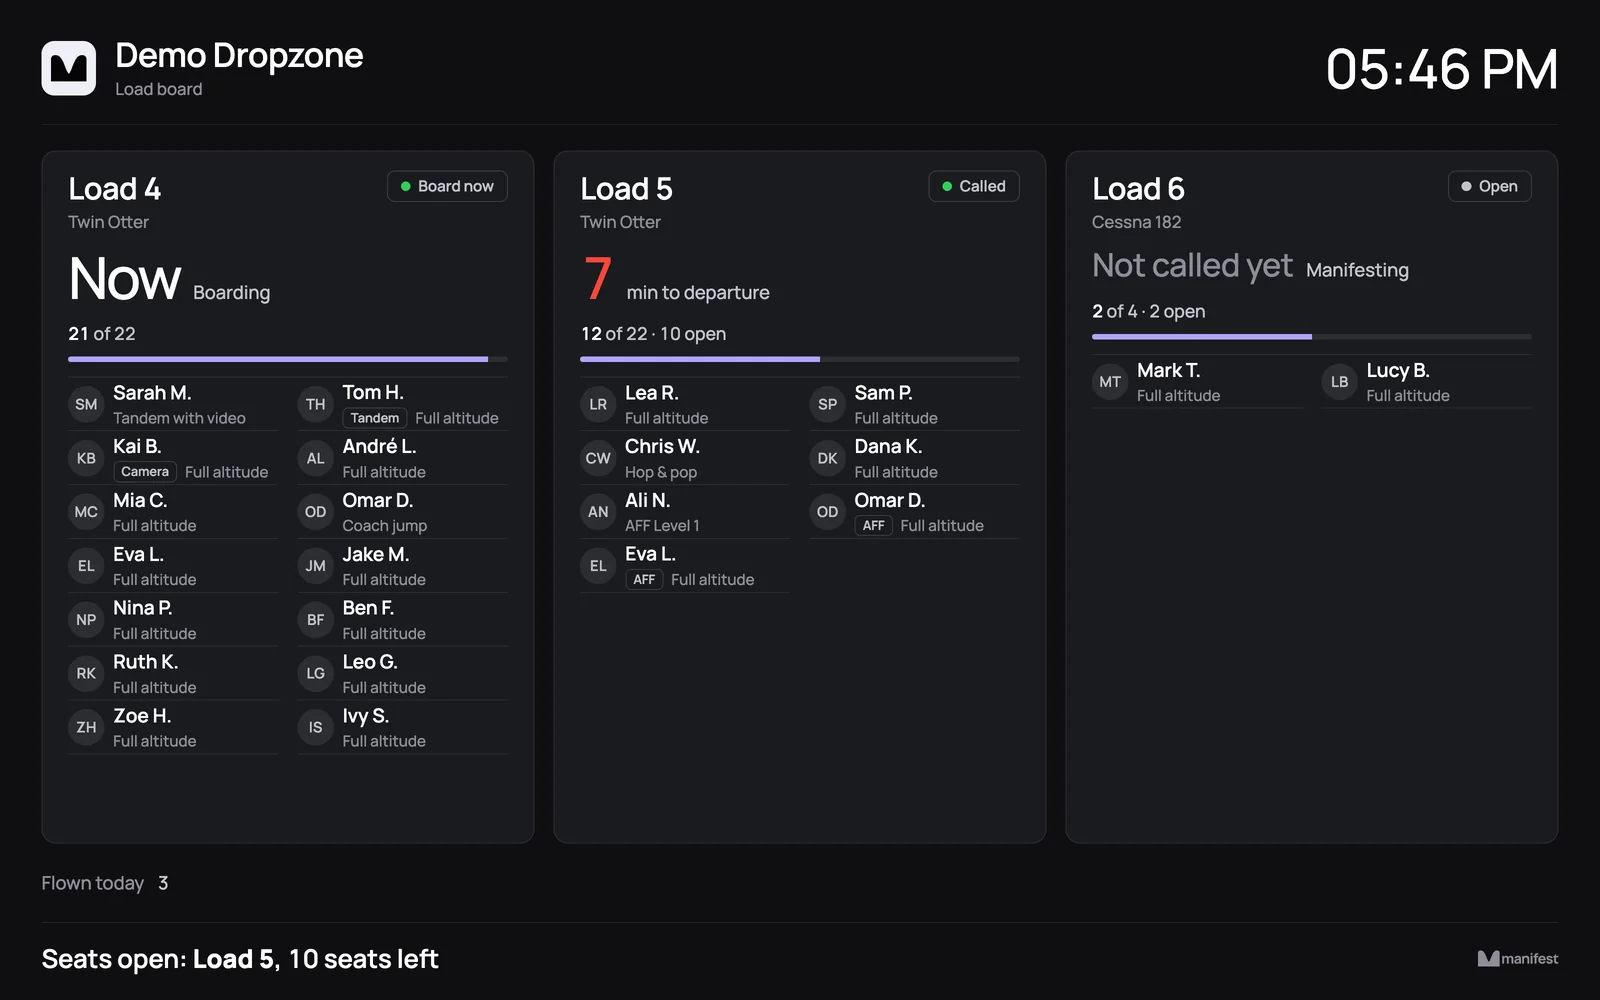
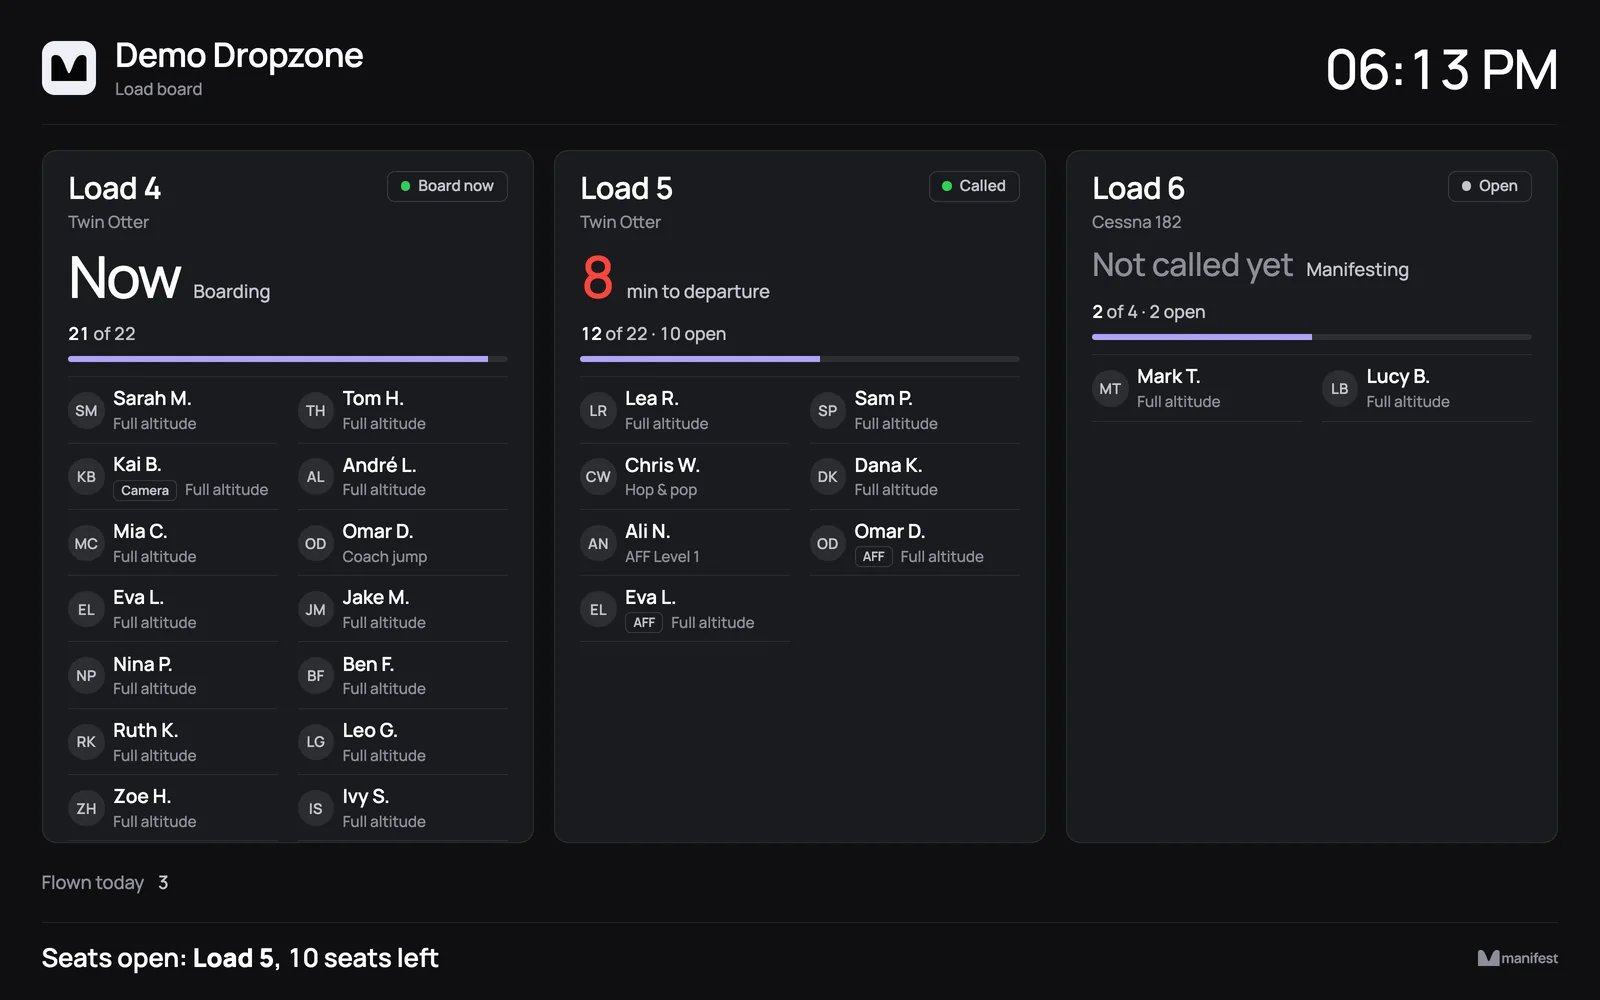
Dropzones: laptop + iPhone hero, why carousel, queue accordion, board without tandem labels
Hero and draft landout use a CSS laptop with a fresh Desk capture and the
full framed iPhone. Quote cards become a sideways carousel, the queue cards
an accordion with a swapping phone. Onboarding line removed.

diff --git a/dropzones/index.html b/dropzones/index.html
@@ -1089,18 +1089,17 @@ section[id], header[id], div[id] { scroll-margin-top: 96px; }
         <span><svg viewBox="0 0 24 24" fill="none" stroke="currentColor" stroke-width="2" stroke-linecap="round" stroke-linejoin="round" aria-hidden="true"><path d="M3 11h3a2 2 0 0 1 2 2v3a2 2 0 0 1-2 2H5a2 2 0 0 1-2-2v-5Zm0 0a9 9 0 1 1 18 0m0 0v5a2 2 0 0 1-2 2h-1a2 2 0 0 1-2-2v-3a2 2 0 0 1 2-2h3Z"/><path d="M21 16v2a4 4 0 0 1-4 4h-5"/></svg>Set up with us, directly</span>
       </div>
     </div>
-    <p class="li hero-founding" style="--i:4">Dropzones are onboarding now, set up directly with us.</p>
   </div>
   <!-- F13 (16 Oct 2026): the hero shows real Desk panels cut from
        desk-today.jpg (Next load, Standby, Loads; Next load alone on phones) so
        the UI text is readable. Nothing redrawn. -->
   <figure class="li hero-media" id="demo" style="--i:5">
-    <div class="hm-wrap">
-      <div class="frame">
-        <div class="frame-bar"><i></i><i></i><i></i><span>desk.jumpmanifest.com</span></div>
-        <img src="/assets/desk-today.jpg?v=1" alt="Manifest Desk: the Today page of a demo dropzone, with today's takings, open loads, the next load countdown, standby and accounts" width="1440" height="900" fetchpriority="high" />
+    <div class="dv">
+      <div class="lap" aria-hidden="false">
+        <div class="lap-lid"><div class="lap-screen"><img src="/assets/features/desk-today-laptop.webp" width="1800" height="1125" alt="Manifest Desk on a laptop: the Today page of a demo dropzone with takings, loads, the next load, standby and accounts" fetchpriority="high" /></div></div>
+        <div class="lap-base"><i></i></div>
       </div>
-      <img class="hm-phone" src="/assets/opt/mock-home3.a2e7757f.webp" width="640" height="1330" alt="" />
+      <img class="dv-phone" src="/assets/opt/mock-home3.a2e7757f.webp" width="640" height="1330" alt="The Manifest app on an iPhone with the jumper's next load" />
     </div>
     <figcaption class="desk-cap">Manifest Desk with sample data from a demo dropzone.</figcaption>
   </figure>
@@ -1157,10 +1156,33 @@ section[id], header[id], div[id] { scroll-margin-top: 96px; }
     <h2 id="lv-h">Skydivers deserve better than a ticket app.</h2>
     <p>Give them their whole skydiving life in their pocket, and they&rsquo;ll book, top up and come back more.</p>
   </section>
-  <section class="pain3" aria-label="What only Manifest does">
-    <div class="pain"><b>&ldquo;Load 4, 10 minutes!&rdquo;</b><p>One button at the desk. Every jumper on the load gets the call on their Lock Screen, wherever they are on the dropzone.</p></div>
-    <div class="pain"><b>&ldquo;Where&rsquo;s the jumper who landed out?&rdquo;</b><p>A live map shows them, with a pickup pin for the driver and one tap to put every load on hold.</p></div>
-    <div class="pain"><b>&ldquo;Did you see my jump?&rdquo;</b><p>Every jumper can replay their jump in 3D and share it, with your dropzone&rsquo;s name on it. Free advertising, every jump day.</p></div>
+  <!-- WHY IT WORKS CAROUSEL (19 Oct 2026): apple.com style sideways cards,
+       one question a dropzone hears every day, one line, one real picture. -->
+  <section class="cr" aria-label="What only Manifest does">
+    <div class="cr-track" tabindex="0">
+      <article class="cr-card">
+        <p class="cr-eye">Load calls</p>
+        <h3>&ldquo;Load 4, 10&nbsp;minutes!&rdquo;</h3>
+        <p class="cr-line">One tap at the desk. Every Lock Screen knows.</p>
+        <div class="cr-pic cr-desk"><img src="/assets/help/manifest-call.webp" width="1200" height="750" alt="Calling a load on Manifest Desk" loading="lazy" decoding="async" /></div>
+      </article>
+      <article class="cr-card">
+        <p class="cr-eye">Landouts</p>
+        <h3>&ldquo;Where&rsquo;s the jumper who landed&nbsp;out?&rdquo;</h3>
+        <p class="cr-line">On your map, with a pin for the driver.</p>
+        <div class="cr-pic cr-desk"><img src="/assets/features/desk-landout.webp" width="1400" height="825" alt="A landout on Manifest Desk with the jumper on a satellite map" loading="lazy" decoding="async" /></div>
+      </article>
+      <article class="cr-card">
+        <p class="cr-eye">3D replays</p>
+        <h3>&ldquo;Did you see my&nbsp;jump?&rdquo;</h3>
+        <p class="cr-line">Replayed in 3D and shared, with your name on it.</p>
+        <div class="cr-pic cr-phone"><img src="/assets/features/app-3d-replay.webp" width="571" height="1185" alt="A jump replayed in 3D in the Manifest app" loading="lazy" decoding="async" /></div>
+      </article>
+    </div>
+    <div class="cr-nav">
+      <button type="button" class="cr-btn" data-dir="-1" aria-label="Previous"><svg viewBox="0 0 16 16" fill="none" stroke="currentColor" stroke-width="2" stroke-linecap="round" stroke-linejoin="round" aria-hidden="true"><path d="M10 3L5 8l5 5"/></svg></button>
+      <button type="button" class="cr-btn" data-dir="1" aria-label="Next"><svg viewBox="0 0 16 16" fill="none" stroke="currentColor" stroke-width="2" stroke-linecap="round" stroke-linejoin="round" aria-hidden="true"><path d="M6 3l5 5-5 5"/></svg></button>
+    </div>
   </section>
   <style>
   /* LIVE IN IT line (16 Oct 2026): one headline and one sentence, centred. */
@@ -1168,23 +1190,81 @@ section[id], header[id], div[id] { scroll-margin-top: 96px; }
   .lv h2{margin:0;font-family:"General Sans","Manrope",sans-serif;font-weight:550;letter-spacing:-.028em;font-size:clamp(34px,4vw,56px);line-height:1.05;color:#050505;text-wrap:balance}
   .lv p{margin:20px auto 0;font-size:20px;line-height:31px;color:#52525B;max-width:620px;text-wrap:balance}
   @media (max-width:899px){.lv{margin-top:64px}.lv p{font-size:17px;line-height:27px}}
-  .pain3{display:grid;grid-template-columns:repeat(3,1fr);gap:16px;margin:56px 0 0}
-  .pain{background:#f5f5f6;border-radius:24px;padding:28px 26px}
-  .pain b{display:block;font-family:"Manrope",sans-serif;font-size:21px;line-height:27px;font-weight:700;color:#0f0b1c;letter-spacing:-.01em}
-  .pain p{margin:10px 0 0;font-size:16px;line-height:24px;color:#52525B}
-  @media (max-width:899px){.pain3{grid-template-columns:1fr;gap:12px;margin-top:36px}.pain{padding:22px 20px}.pain b{font-size:19px;line-height:25px}}
+  /* DEVICES (19 Oct 2026): a CSS laptop with the real Desk inside and the
+     real framed iPhone standing at its lower right. Both always whole. */
+  .dv{position:relative;padding:0 13% 2% 0}
+  .lap{width:100%}
+  .lap-lid{position:relative;background:#0c0c0e;border-radius:18px 18px 4px 4px;padding:2.2% 2.2% 2.6%;box-shadow:0 0 0 1.5px #c6c7cb,0 0 0 2.5px #e6e7ea}
+  .lap-screen{aspect-ratio:16/10;overflow:hidden;border-radius:3px;background:#fff}
+  .lap-screen img{display:block;width:100%;height:100%;object-fit:cover;object-position:left top}
+  .lap-base{position:relative;width:116%;margin-left:-8%;aspect-ratio:100/3.3;background:linear-gradient(180deg,#eceef0 0%,#d5d7da 38%,#b9bbbf 100%);border-radius:2px 2px 50% 50%/2px 2px 100% 100%;box-shadow:0 26px 40px -18px rgba(5,5,5,.45)}
+  .lap-base i{position:absolute;left:50%;top:0;width:15%;height:42%;transform:translateX(-50%);background:linear-gradient(180deg,#b4b6ba,#cfd1d4);border-radius:0 0 10px 10px}
+  .dv-phone{position:absolute;right:0;bottom:0;width:19%;height:auto;filter:drop-shadow(0 22px 30px rgba(5,5,5,.30))}
+  @media (max-width:767px){.lap-lid{border-radius:10px 10px 3px 3px}.dv{padding:0 11% 3% 4%}.lap-base{width:108%;margin-left:-4%}.dv-phone{width:24%}}
+  /* WHY CAROUSEL (19 Oct 2026): sideways white cards on grey, arrows bottom right. */
+  .cr{margin:56px 0 0;background:#F5F5F7;border-radius:32px;padding:40px 0 28px}
+  .cr-track{display:flex;gap:20px;overflow-x:auto;scroll-snap-type:x mandatory;scroll-padding:0 40px;padding:0 40px 8px;scrollbar-width:none;outline:none}
+  .cr-track::-webkit-scrollbar{display:none}
+  .cr-card{flex:0 0 min(480px,82%);scroll-snap-align:start;background:#fff;border-radius:28px;padding:40px 40px 0;display:flex;flex-direction:column;min-height:640px;overflow:hidden}
+  .cr-eye{margin:0;font-size:15px;line-height:20px;font-weight:600;color:#71717B}
+  .cr-card h3{margin:10px 0 0;font-family:"General Sans","Manrope",sans-serif;font-weight:550;font-size:34px;line-height:38px;letter-spacing:-.028em;color:#050505;text-wrap:balance}
+  .cr-line{margin:12px 0 0;font-size:17px;line-height:25px;font-weight:500;color:#71717B}
+  .cr-pic{margin-top:auto;padding-top:32px}
+  .cr-pic img{display:block;height:auto}
+  .cr-desk img{width:150%;max-width:none;border-radius:12px 0 0 0;box-shadow:0 0 0 1px rgba(5,5,5,.07),0 18px 40px rgba(5,5,5,.10)}
+  .cr-phone{align-self:center;padding-bottom:28px}
+  .cr-phone img{width:220px;mix-blend-mode:multiply}
+  .cr-nav{display:flex;justify-content:flex-end;gap:12px;padding:20px 40px 0}
+  .cr-btn{width:44px;height:44px;border-radius:50%;border:0;background:#E4E4E7;color:#050505;display:inline-flex;align-items:center;justify-content:center;cursor:pointer}
+  .cr-btn svg{width:16px;height:16px}
+  .cr-btn:disabled{opacity:.35;cursor:default}
+  @media (max-width:899px){.cr{margin-top:36px;border-radius:24px;padding:24px 0 20px}.cr-track{gap:12px;padding:0 16px 6px;scroll-padding:0 16px}.cr-card{flex-basis:86%;min-height:540px;padding:28px 24px 0;border-radius:22px}.cr-card h3{font-size:27px;line-height:31px}.cr-line{font-size:16px;line-height:23px}.cr-phone img{width:190px}.cr-nav{padding:16px 16px 0}}
+  /* QUEUE ACCORDION (19 Oct 2026) */
+  .ac{display:grid;grid-template-columns:5fr 7fr;gap:56px;align-items:center;margin-top:56px}
+  .ac-item{border-bottom:1px solid #E4E4E7}
+  .ac-item h3{margin:0}
+  .ac-btn{width:100%;display:flex;justify-content:space-between;align-items:center;gap:16px;padding:26px 0;border:0;background:none;cursor:pointer;text-align:left;font-family:"General Sans","Manrope",sans-serif;font-weight:550;font-size:28px;line-height:34px;letter-spacing:-.02em;color:#050505}
+  .ac-chev{width:20px;height:20px;flex:0 0 auto;transition:transform .3s}
+  .ac-btn[aria-expanded="true"] .ac-chev{transform:rotate(180deg)}
+  .ac-panel p{margin:-8px 0 26px;font-size:18px;line-height:27px;font-weight:500;color:#71717B}
+  .ac-mimg{display:none}
+  .ac-stage{background:#F5F5F7;border-radius:32px;display:flex;align-items:center;justify-content:center;padding:56px 0;min-height:680px}
+  .ac-simg{display:block;width:280px;height:auto;transition:opacity .25s}
+  .ac-simg.ac-mul,.ac-mimg.ac-mul{mix-blend-mode:multiply}
+  @media (max-width:899px){.ac{grid-template-columns:1fr;gap:0;margin-top:32px}.ac-stage{display:none}.ac-btn{font-size:22px;line-height:28px;padding:20px 0}
+    .ac-panel p{font-size:16px;line-height:24px;margin-bottom:20px}.ac-mimg{display:block;width:100%;height:440px;object-fit:contain;padding:28px 0;box-sizing:border-box;background:#F5F5F7;border-radius:24px;margin:0 0 28px}.ac-panel{background:none}}
   </style>
+  <!-- JUMPER QUEUE ACCORDION (19 Oct 2026): apple.com "Mac and iPhone" style.
+       Three items on the left, the full phone on the right swaps with them. -->
   <section class="sec" id="app">
     <p class="eyebrow"><svg viewBox="0 0 24 24" fill="none" stroke="currentColor" stroke-width="2" stroke-linecap="round" stroke-linejoin="round" aria-hidden="true"><rect x="6" y="2.5" width="12" height="19" rx="3"/><path d="M11 18.5h2"/></svg>The Manifest app, free to download</p>
-    <h2>Your jumpers do the queueing on their phone.</h2>
-    <div class="app-panel">
-      <div class="app-grid">
-        <div class="app-card"><span class="n">01</span><b>Top up with Apple Pay</b><p>Money goes straight to your Stripe and shows on the desk instantly.</p></div>
-        <div class="app-card"><span class="n">02</span><b>Self-manifest from the phone</b><p>Jumpers book their own slots. The desk always has the final say.</p></div>
-        <div class="app-card"><span class="n">03</span><b>Every call on their phone</b><p>Every call and hold hits their Lock Screen the second you press it.</p></div>
+    <h2>Your jumpers queue on their phone.</h2>
+    <div class="ac">
+      <div class="ac-list">
+        <div class="ac-item open">
+          <h3><button type="button" class="ac-btn" id="ac-b-topup" aria-expanded="true" aria-controls="ac-p-topup" data-img="/assets/opt/app-wallet.webp" data-w="640" data-h="1325" data-alt="The Manifest app wallet with balance, top up and book" data-mul="0">Top up with Apple Pay<svg class="ac-chev" viewBox="0 0 16 16" fill="none" stroke="currentColor" stroke-width="2" stroke-linecap="round" stroke-linejoin="round" aria-hidden="true"><path d="M4 6l4 4 4-4"/></svg></button></h3>
+          <div class="ac-panel" id="ac-p-topup" role="region" aria-labelledby="ac-b-topup">
+            <p>Straight to your Stripe, on the desk at once.</p>
+            <img class="ac-mimg" src="/assets/opt/app-wallet.webp" width="640" height="1325" alt="The Manifest app wallet with balance, top up and book" loading="lazy" decoding="async" />
+          </div>
+        </div>
+        <div class="ac-item">
+          <h3><button type="button" class="ac-btn" id="ac-b-book" aria-expanded="false" aria-controls="ac-p-book" data-img="/assets/features/app-liveloads.webp" data-w="560" data-h="1171" data-alt="Live loads in the Manifest app with the next load building" data-mul="0">Book from the phone<svg class="ac-chev" viewBox="0 0 16 16" fill="none" stroke="currentColor" stroke-width="2" stroke-linecap="round" stroke-linejoin="round" aria-hidden="true"><path d="M4 6l4 4 4-4"/></svg></button></h3>
+          <div class="ac-panel" id="ac-p-book" role="region" aria-labelledby="ac-b-book" hidden>
+            <p>They take their own slot. The desk has the final say.</p>
+            <img class="ac-mimg" src="/assets/features/app-liveloads.webp" width="560" height="1171" alt="Live loads in the Manifest app with the next load building" loading="lazy" decoding="async" />
+          </div>
+        </div>
+        <div class="ac-item">
+          <h3><button type="button" class="ac-btn" id="ac-b-call" aria-expanded="false" aria-controls="ac-p-call" data-img="/assets/features/app-lockscreen.webp" data-w="489" data-h="1011" data-alt="An iPhone Lock Screen with the Manifest load countdown" data-mul="0">Every call on their phone<svg class="ac-chev" viewBox="0 0 16 16" fill="none" stroke="currentColor" stroke-width="2" stroke-linecap="round" stroke-linejoin="round" aria-hidden="true"><path d="M4 6l4 4 4-4"/></svg></button></h3>
+          <div class="ac-panel" id="ac-p-call" role="region" aria-labelledby="ac-b-call" hidden>
+            <p>Calls and holds hit their Lock Screen at once.</p>
+            <img class="ac-mimg" src="/assets/features/app-lockscreen.webp" width="489" height="1011" alt="An iPhone Lock Screen with the Manifest load countdown" loading="lazy" decoding="async" />
+          </div>
+        </div>
       </div>
+      <div class="ac-stage" aria-hidden="true"><img class="ac-simg" src="/assets/opt/app-wallet.webp" width="640" height="1325" alt="" loading="lazy" decoding="async" /></div>
     </div>
-    <p class="app-foot">Less time in line at manifest. <b>More time in the air.</b></p>
   </section>
 
   <!-- VERSUS (9 Oct 2026): old manifest software against the Desk. Every
@@ -1824,6 +1904,20 @@ section[id], header[id], div[id] { scroll-margin-top: 96px; }
   }
   [L, J, D].forEach(function (x) { x.addEventListener('input', upd); });
   upd();
+})();
+</script>
+<script id="cr-ac">
+(function(){
+  var t=document.querySelector('.cr-track');
+  if(t){var b=document.querySelectorAll('.cr-btn');
+    function st(){b[0].disabled=t.scrollLeft<4;b[1].disabled=t.scrollLeft+t.clientWidth>=t.scrollWidth-4;}
+    b.forEach(function(x){x.addEventListener('click',function(){var c=t.querySelector('.cr-card');t.scrollBy({left:(c.offsetWidth+20)*+x.dataset.dir,behavior:'smooth'});});});
+    t.addEventListener('scroll',st,{passive:true});addEventListener('resize',st);st();}
+  var bs=document.querySelectorAll('.ac-btn'),im=document.querySelector('.ac-simg');
+  bs.forEach(function(x){x.addEventListener('click',function(){
+    bs.forEach(function(y){var on=y===x;y.setAttribute('aria-expanded',on);document.getElementById(y.getAttribute('aria-controls')).hidden=!on;y.closest('.ac-item').classList.toggle('open',on);});
+    if(im&&im.getAttribute('src')!==x.dataset.img){im.style.opacity=0;setTimeout(function(){im.src=x.dataset.img;im.width=+x.dataset.w;im.height=+x.dataset.h;im.classList.toggle('ac-mul',x.dataset.mul==='1');im.style.opacity=1;},200);}
+  });});
 })();
 </script>
 <script id="bento-in">

diff --git a/dropzones-apple/index.html b/dropzones-apple/index.html
@@ -923,6 +923,18 @@ section[id], header[id], div[id] { scroll-margin-top: 96px; }
   .ap-more .bento { margin-top: 48px; }
   .ap-faq { padding-top: 96px; padding-bottom: 96px; }
 }
+  /* DEVICES (19 Oct 2026): a CSS laptop with the real Desk inside and the
+     real framed iPhone standing at its lower right. Both always whole. */
+  .dv{position:relative;padding:0 13% 2% 0}
+  .lap{width:100%}
+  .lap-lid{position:relative;background:#0c0c0e;border-radius:18px 18px 4px 4px;padding:2.2% 2.2% 2.6%;box-shadow:0 0 0 1.5px #c6c7cb,0 0 0 2.5px #e6e7ea}
+  .lap-screen{aspect-ratio:16/10;overflow:hidden;border-radius:3px;background:#fff}
+  .lap-screen img{display:block;width:100%;height:100%;object-fit:cover;object-position:left top}
+  .lap-base{position:relative;width:116%;margin-left:-8%;aspect-ratio:100/3.3;background:linear-gradient(180deg,#eceef0 0%,#d5d7da 38%,#b9bbbf 100%);border-radius:2px 2px 50% 50%/2px 2px 100% 100%;box-shadow:0 26px 40px -18px rgba(5,5,5,.45)}
+  .lap-base i{position:absolute;left:50%;top:0;width:15%;height:42%;transform:translateX(-50%);background:linear-gradient(180deg,#b4b6ba,#cfd1d4);border-radius:0 0 10px 10px}
+  .dv-phone{position:absolute;right:0;bottom:0;width:19%;height:auto;filter:drop-shadow(0 22px 30px rgba(5,5,5,.30))}
+  @media (max-width:767px){.lap-lid{border-radius:10px 10px 3px 3px}.dv{padding:0 11% 3% 4%}.lap-base{width:108%;margin-left:-4%}.dv-phone{width:24%}}
+.ap-dv{max-width:1100px;margin-left:auto;margin-right:auto;text-align:left}
 </style>
 </head>
 <body>
@@ -970,9 +982,11 @@ section[id], header[id], div[id] { scroll-margin-top: 96px; }
         <a class="ap-btn" href="mailto:andre@manifestjump.com?subject=Manifest%20Desk%3A%20book%20a%20demo&amp;body=Dropzone%3A%20%0AName%3A%20%0APhone%3A%20%0ABest%20time%20for%20a%2020-minute%20video%20call%3A%20">Book a demo</a>
         <a class="ap-link" href="#pricing">See pricing <svg viewBox="0 0 8 14" fill="none" stroke="currentColor" stroke-width="2" stroke-linecap="round" stroke-linejoin="round" aria-hidden="true"><path d="M1 1l6 6-6 6"/></svg></a>
       </div>
-      <figure class="ap-media ap-combo ap-fade" style="margin-left:auto;margin-right:auto">
-        <img class="ap-shot" src="/assets/desk-today.jpg?v=1" width="1440" height="900" alt="Manifest Desk, the Today page of a demo dropzone with takings, loads, standby and accounts" fetchpriority="high" />
-        <img class="ap-phone" src="/assets/opt/mock-home3.a2e7757f.webp" width="640" height="1330" alt="The Manifest app home screen with the jumper's next load" />
+      <figure class="ap-media ap-dv ap-fade">
+        <div class="dv">
+          <div class="lap"><div class="lap-lid"><div class="lap-screen"><img src="/assets/features/desk-today-laptop.webp" width="1800" height="1125" alt="Manifest Desk on a laptop, the Today page of a demo dropzone" fetchpriority="high" /></div></div><div class="lap-base"><i></i></div></div>
+          <img class="dv-phone" src="/assets/opt/mock-home3.a2e7757f.webp" width="640" height="1330" alt="The Manifest app on an iPhone with the jumper's next load" fetchpriority="high" />
+        </div>
       </figure>
     </div>
   </header>
@@ -1003,9 +1017,11 @@ section[id], header[id], div[id] { scroll-margin-top: 96px; }
     <div class="ap-in">
       <h2 class="ap-h2 ap-fade">Landed out? Found fast.</h2>
       <p class="ap-sub ap-fade">One tap from them. Their spot on your map.</p>
-      <figure class="ap-media ap-combo ap-fade" style="margin-left:auto;margin-right:auto">
-        <img class="ap-shot" src="/assets/landout-desk.jpg" width="1600" height="926" alt="Landout SOS on Manifest Desk with the jumper on a satellite map and a chat" loading="lazy" decoding="async" />
-        <img class="ap-phone" src="/assets/landout-phone.webp" width="640" height="1325" alt="The landout chat in the Manifest app, sharing the jumper's location" loading="lazy" decoding="async" />
+      <figure class="ap-media ap-dv ap-fade">
+        <div class="dv">
+          <div class="lap"><div class="lap-lid"><div class="lap-screen"><img src="/assets/features/desk-sos-laptop.webp" width="1800" height="1125" alt="A landout on Manifest Desk, with the jumper on a map and a chat" loading="lazy" decoding="async" /></div></div><div class="lap-base"><i></i></div></div>
+          <img class="dv-phone" src="/assets/landout-phone.webp" width="640" height="1325" alt="The landout chat in the Manifest app, sharing the jumper's location" loading="lazy" decoding="async" />
+        </div>
       </figure>
     </div>
   </section>
